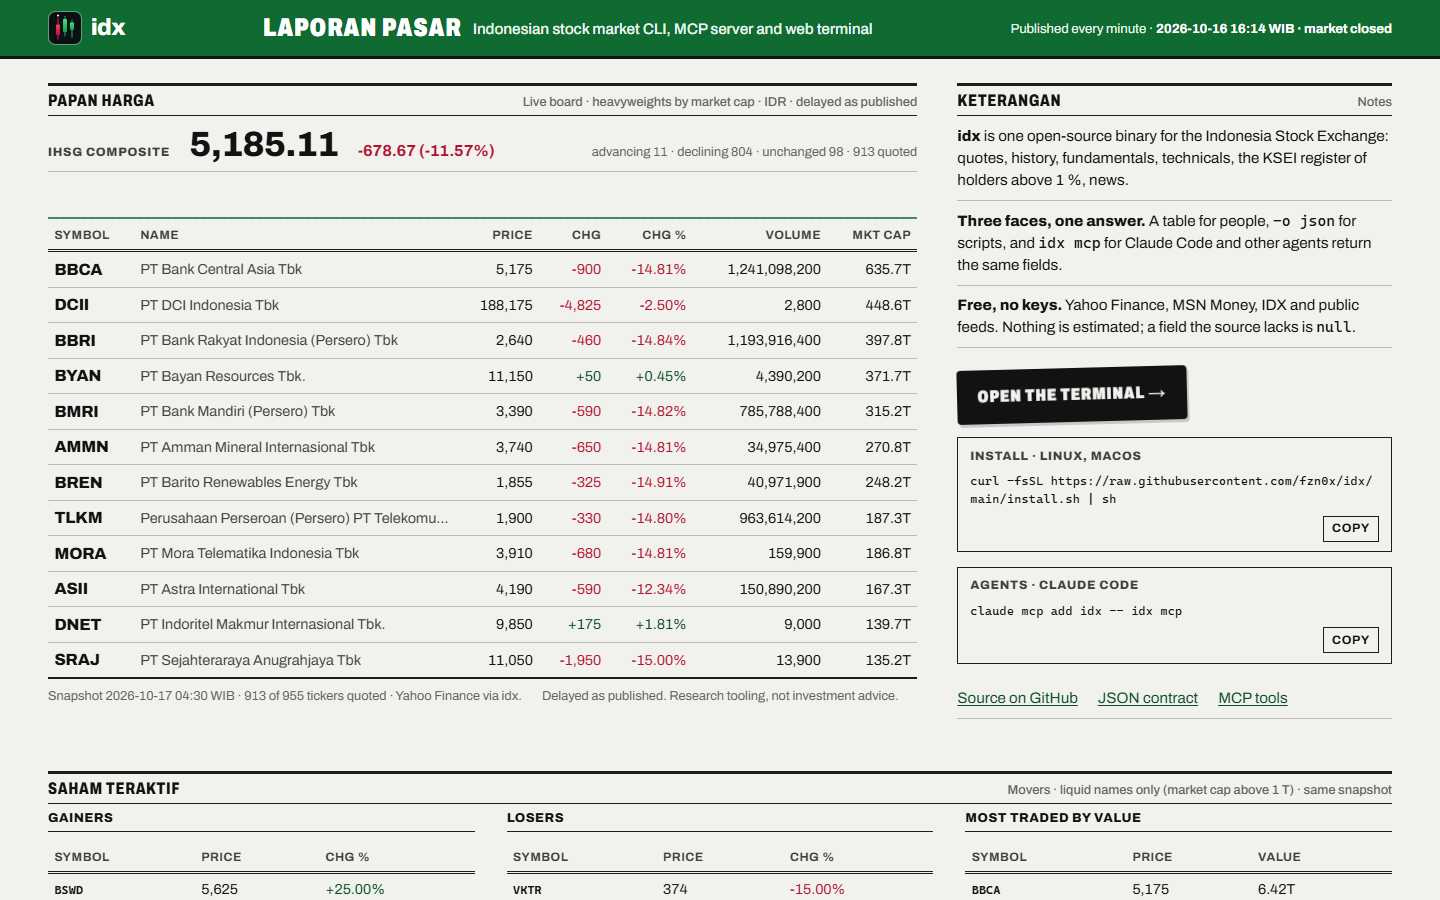
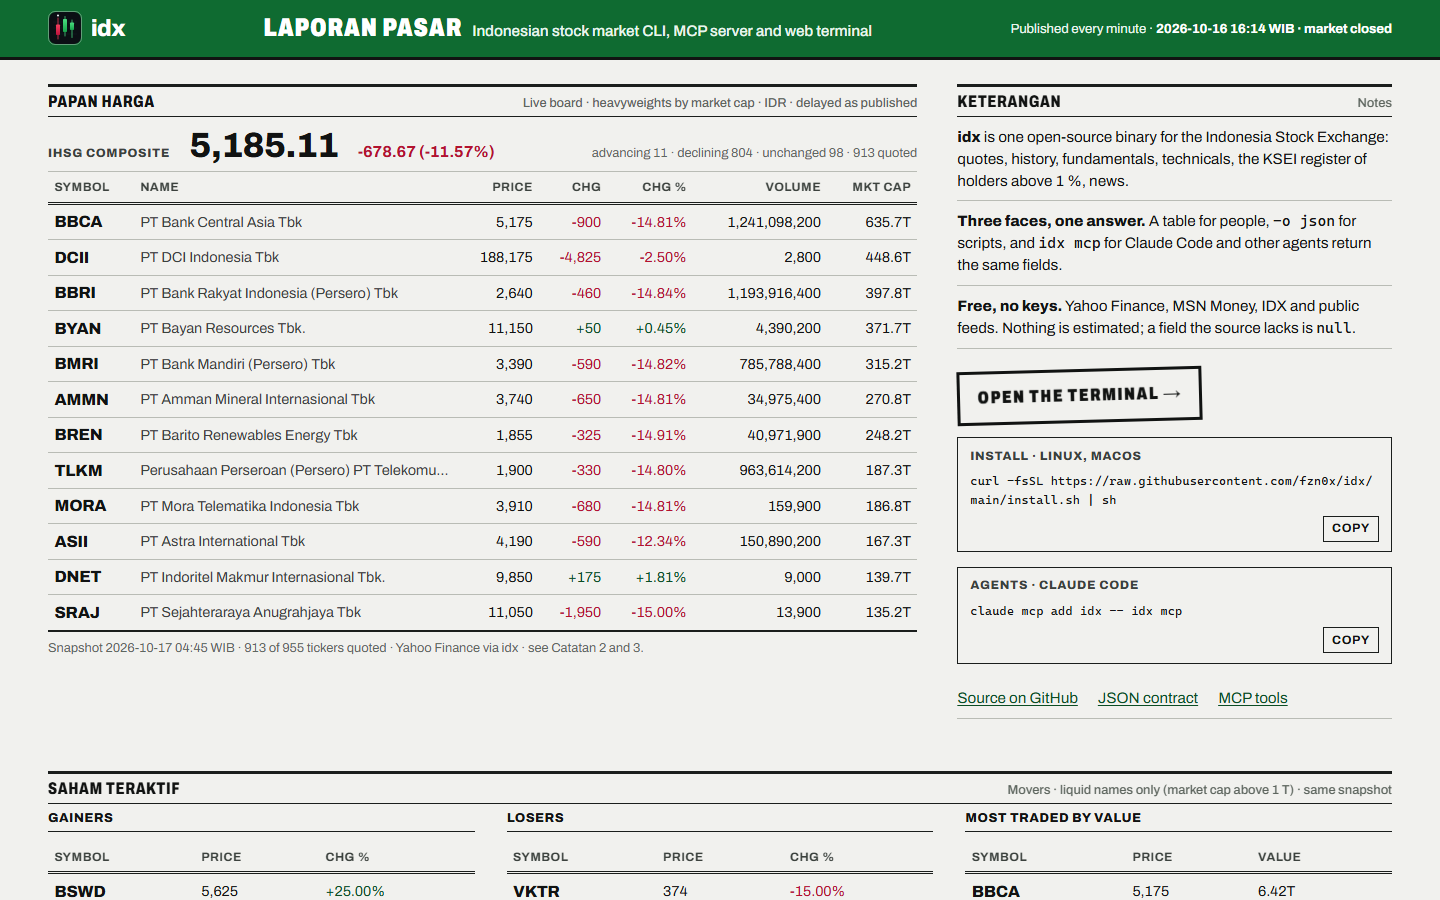
fix(web): finish-review batch for the landing page and terminal
- mobile board keeps Symbol, Price, Chg, Chg %, Mkt Cap visible without scrolling
- terminal quote columns lead with price and change; scroll containers show a
  fade and a "scroll for more columns" cue on touch screens
- primary action is a real stamp (transparent, 3 px ink border, no shadow)
- movers ticker codes use the board's bold Archivo; monospace scoped to the MCP list
- index tape renders only with real data; single fade entrance removed
- board foot carries provenance and note references, the signature holds the disclaimer
- terminal JSON output framed by rules instead of a side stripe
- masthead heading is a real 1.6rem step with looser leading

diff --git a/web/public/styles.css b/web/public/styles.css
@@ -67,8 +67,8 @@ p { margin: 0; }
 .brand { display: inline-flex; align-items: center; gap: 0.55rem; color: #fff; text-decoration: none; }
 .brand img { width: 34px; height: 34px; display: block; border-radius: 7px; border: 1px solid rgba(255,255,255,0.35); }
 .brand span { font-size: 1.45rem; font-weight: 800; letter-spacing: -0.02em; }
-.masthead-title { font-size: clamp(0.85rem, 1.2vw, 0.95rem); font-weight: 500; text-align: center; color: #e9f6ee; line-height: 1.2; }
-.masthead-title b { display: inline-block; color: #fff; font-weight: 900; font-size: clamp(1.3rem, 2.2vw, 1.6rem); margin-right: 0.5rem; vertical-align: -0.06em; }
+.masthead-title { font-size: clamp(1.3rem, 2.2vw, 1.6rem); font-weight: 900; text-align: center; color: #fff; line-height: 1.35; }
+.masthead-title span { font-size: clamp(0.85rem, 1.2vw, 0.95rem); font-weight: 500; color: #e9f6ee; margin-left: 0.35rem; }
 .dateline { text-align: right; font-size: 0.82rem; color: #e9f6ee; white-space: nowrap; }
 .dateline strong { color: #fff; font-weight: 700; }
 .masthead nav a { color: #fff; margin-left: 1rem; font-size: 0.88rem; }
@@ -90,6 +90,9 @@ p { margin: 0; }
 
 /* ---- tables -------------------------------------------------------------- */
 .tbl-wrap { overflow-x: auto; scrollbar-width: thin; }
+.tbl-wrap.scrollable { -webkit-mask-image: linear-gradient(to right, #000 calc(100% - 3rem), transparent); mask-image: linear-gradient(to right, #000 calc(100% - 3rem), transparent); }
+.scroll-cue { display: none; font-size: 0.8rem; color: var(--ink-3); padding: 0.25rem 0 0; text-align: right; }
+.scroll-cue.on { display: block; }
 .tbl { width: 100%; border-collapse: collapse; font-size: 0.9rem; }
 .tbl th {
   font-size: 0.76rem; font-weight: 700; color: var(--ink-2); text-align: right;
@@ -122,18 +125,18 @@ p { margin: 0; }
 .action { padding: 1.25rem 0 0.75rem; display: grid; gap: 0.9rem; }
 .stamp {
   display: inline-block; justify-self: start;
-  padding: 0.75rem 1.1rem;
-  border: 3px solid var(--ink); border-radius: 4px;
-  background: var(--ink); color: var(--paper);
-  font-weight: 900; font-size: 1.05rem; letter-spacing: 0.06em;
+  padding: 0.7rem 1.1rem;
+  border: 3px solid var(--ink);
+  background: transparent; color: var(--ink);
+  font-weight: 900; font-size: 1.1rem; letter-spacing: 0.08em;
   text-decoration: none;
   transform: rotate(-1.5deg);
-  box-shadow: 2px 3px 0 rgba(17,19,18,0.18);
-  transition: transform 160ms cubic-bezier(.2,.9,.2,1), box-shadow 160ms cubic-bezier(.2,.9,.2,1);
+  transition: background 120ms ease-out, color 120ms ease-out;
 }
-.stamp:hover { transform: rotate(-1.5deg) translateY(-1px); box-shadow: 3px 5px 0 rgba(17,19,18,0.22); color: #fff; }
-.stamp:active { transform: rotate(-1.5deg) translateY(1px); box-shadow: 1px 1px 0 rgba(17,19,18,0.2); }
-.stamp.red { background: transparent; color: var(--stamp); border-color: var(--stamp); box-shadow: none; transform: rotate(2deg); font-size: 0.8rem; padding: 0.3rem 0.6rem; border-width: 2px; }
+.stamp:hover, .stamp:focus-visible { background: var(--ink); color: var(--paper); }
+.stamp:active { background: var(--green-deep); border-color: var(--green-deep); color: #fff; }
+.stamp.red { color: var(--stamp); border-color: var(--stamp); transform: rotate(2deg); font-size: 0.8rem; padding: 0.3rem 0.6rem; border-width: 2px; }
+.stamp.red:hover { background: transparent; color: var(--stamp); }
 .box { border: 1px solid var(--rule); padding: 0.6rem 0.75rem; display: grid; gap: 0.45rem; }
 .box .lbl { font-size: 0.76rem; font-weight: 800; text-transform: uppercase; letter-spacing: 0.06em; color: var(--ink-2); }
 .box pre { font-size: 0.78rem; white-space: pre-wrap; word-break: break-all; }
@@ -153,7 +156,7 @@ p { margin: 0; }
 .stmt pre, .stmt .tbl { margin-top: 0.6rem; }
 .stmt pre { border-bottom: 2px solid var(--rule); padding-bottom: 0.6rem; }
 .stmt .tbl td, .stmt .tbl th { text-align: left; white-space: normal; }
-.stmt .tbl td:first-child { font-family: var(--mono); font-size: 0.78rem; white-space: nowrap; }
+.tbl-mcp td:first-child { font-family: var(--mono); font-size: 0.8rem; white-space: nowrap; }
 .movers { display: grid; grid-template-columns: repeat(3, minmax(0, 1fr)); gap: 0 2rem; }
 
 /* ---- signature ------------------------------------------------------------- */
@@ -167,10 +170,6 @@ p { margin: 0; }
 /* ---- drawn rules (one authored entrance) ------------------------------------ */
 .draw .strip, .draw .tbl th, .draw .sign { position: relative; }
 @media (prefers-reduced-motion: no-preference) {
-  .draw .lead, .draw .section, .draw .sign { animation: settle 700ms cubic-bezier(0.16, 1, 0.3, 1) both; }
-  .draw .section { animation-delay: 120ms; }
-  .draw .sign { animation-delay: 200ms; }
-  @keyframes settle { from { opacity: 0.001; transform: translateY(6px); } to { opacity: 1; transform: none; } }
   .draw .strip { background-size: 100% 100%; }
   .draw .strip::after { content: ""; position: absolute; left: 0; right: 0; top: -3px; height: 3px; background: var(--paper); transform-origin: right; animation: wipe 900ms cubic-bezier(0.16, 1, 0.3, 1) both; }
   .draw .strip.green::after { display: none; }
@@ -185,9 +184,12 @@ p { margin: 0; }
   .notes { columns: 1; }
 }
 @media (max-width: 46rem) {
+  /* The board stays readable without a horizontal scroll: symbol, price, change, change %, market cap. */
+  #board .tbl th:nth-child(2), #board .tbl td:nth-child(2), #board .tbl th:nth-child(6), #board .tbl td:nth-child(6) { display: none; }
+  .tbl .name { max-width: 8rem; }
   .masthead .wrap { grid-template-columns: auto minmax(0, 1fr); gap: 0.5rem 1rem; }
   .masthead-title { grid-column: 1 / -1; text-align: left; order: 3; }
-  .dateline { white-space: normal; font-size: 0.78rem; overflow-wrap: anywhere; line-height: 1.3; }
+  .dateline { white-space: normal; font-size: 0.78rem; overflow-wrap: anywhere; line-height: 1.4; }
   .tbl { font-size: 0.84rem; }
   .sign { grid-template-columns: 1fr; }
 }
@@ -209,7 +211,7 @@ p { margin: 0; }
 .entry .reasons { margin: 0.5rem 0 0; padding-left: 1.1rem; font-size: 0.9rem; }
 .entry .prose { max-width: 72ch; font-size: 0.95rem; }
 .entry .pill { display: inline-block; border: 2px solid currentColor; padding: 0.05rem 0.45rem; font-weight: 800; font-size: 0.8rem; text-transform: uppercase; letter-spacing: 0.06em; transform: rotate(-1deg); }
-.entry pre.json { font-size: 0.76rem; max-height: 28rem; overflow: auto; border-left: 2px solid var(--rule); padding-left: 0.75rem; }
+.entry pre.json { font-size: 0.76rem; max-height: 28rem; overflow: auto; border-top: 1px solid var(--rule); border-bottom: 2px solid var(--rule); padding: 0.5rem 0; }
 .entry .links a { display: block; font-size: 0.84rem; overflow: hidden; text-overflow: ellipsis; white-space: nowrap; }
 .prompt {
   position: sticky; bottom: 0; background: var(--paper);

diff --git a/web/public/terminal.js b/web/public/terminal.js
@@ -60,12 +60,20 @@ function kv(pairs) {
 const pct = (v) => fmt.pctPlain(v);
 const x = (v) => (v == null ? "—" : `${fmt.num(v, 2)}x`);
 
+const newsTable = (items) => wrapScroll(table([
+  { h: "WIB", f: (i) => (i.published ? fmt.wib(i.published).slice(5, 16) : "—"), l: true }, { h: "Source", k: "source", l: true },
+  { h: "±", f: (i) => (i.sentiment > 0 ? "+" : i.sentiment < 0 ? "−" : "·"), cls: (i) => signClass(i.sentiment) },
+  { h: "Headline", f: (i) => el("a", { href: i.url, target: "_blank", rel: "noopener", text: i.title }), l: true },
+], items));
+
 const R = {
   quotes(d) {
     return wrapScroll(table([
-      { h: "Symbol", k: "symbol", l: true, cls: "sym" }, { h: "Name", k: "name", l: true, cls: "name" },
-      { h: "Price", f: (r) => fmt.price(r.price), cls: "num" }, { h: "Chg", f: (r) => fmt.change(r.change), cls: (r) => `num ${signClass(r.change)}` },
-      { h: "Chg %", f: (r) => fmt.pct(r.change_pct), cls: (r) => `num ${signClass(r.change_pct)}` }, { h: "Open", f: (r) => fmt.price(r.open) },
+      { h: "Symbol", k: "symbol", l: true, cls: "sym" },
+      { h: "Price", f: (r) => fmt.price(r.price), cls: "num" },
+      { h: "Chg %", f: (r) => fmt.pct(r.change_pct), cls: (r) => `num ${signClass(r.change_pct)}` },
+      { h: "Chg", f: (r) => fmt.change(r.change), cls: (r) => `num ${signClass(r.change)}` },
+      { h: "Name", k: "name", l: true, cls: "name" }, { h: "Open", f: (r) => fmt.price(r.open) },
       { h: "High", f: (r) => fmt.price(r.day_high) }, { h: "Low", f: (r) => fmt.price(r.day_low) }, { h: "Volume", f: (r) => fmt.int(r.volume) },
       { h: "Mkt Cap", f: (r) => fmt.compact(r.market_cap) }, { h: "P/E", f: (r) => fmt.ratio(r.pe_trailing) }, { h: "Div %", f: (r) => pct(r.dividend_yield_pct) },
     ], d));
@@ -187,11 +195,7 @@ const R = {
   news(n) {
     const frag = document.createDocumentFragment();
     frag.append(el("p", { class: "prose", text: n.symbol ? `${n.items.length} of ${n.scanned} scanned headlines mention ${n.symbol}${n.matched_name ? ` or ${n.matched_name}` : ""} · ${n.sources.join(", ")}` : `${n.items.length} of ${n.scanned} headlines · ${n.sources.join(", ")}` }));
-    frag.append(wrapScroll(table([
-      { h: "WIB", f: (i) => (i.published ? fmt.wib(i.published).slice(5, 16) : "—"), l: true }, { h: "Source", k: "source", l: true },
-      { h: "±", f: (i) => (i.sentiment > 0 ? "+" : i.sentiment < 0 ? "−" : "·"), cls: (i) => signClass(i.sentiment) },
-      { h: "Headline", f: (i) => el("a", { href: i.url, target: "_blank", rel: "noopener", text: i.title }), l: true },
-    ], n.items)));
+    frag.append(newsTable(n.items));
     frag.append(el("p", { class: "warn", text: "± is a lexicon read of the headline, not a recommendation." }));
     return frag;
   },
@@ -201,7 +205,7 @@ const R = {
     frag.append(el("p", { class: "prose" }, [el("span", { class: `pill ${cls}`, text: s.label.replace("_", " ") }), ` score ${s.score > 0 ? "+" : ""}${fmt.num(s.score, 2)} · ${s.items} headlines: ${s.positive} positive, ${s.negative} negative, ${s.neutral} neutral${s.oldest ? ` · ${fmt.date(s.oldest)} → ${fmt.date(s.newest)}` : ""}`]));
     const terms = (l) => (l.length ? l.map(([t, n]) => `${t} ×${n}`).join(", ") : "—");
     frag.append(el("p", { class: "prose", text: `Terms · positive: ${terms(s.top_positive_terms)} · negative: ${terms(s.top_negative_terms)}` }));
-    if (s.headlines.length) frag.append(R.news({ symbol: s.symbol, matched_name: s.matched_name, items: s.headlines, scanned: s.items, sources: [] }).lastChild.previousSibling);
+    if (s.headlines.length) frag.append(newsTable(s.headlines));
     frag.append(el("p", { class: "warn", text: "Lexicon count over Indonesian and English finance terms. Indicative only." }));
     return frag;
   },

diff --git a/web/public/landing.js b/web/public/landing.js
@@ -3,8 +3,8 @@ import { api, fmt, table, wrapScroll, el, sparkline, reink, signClass, copyButto
 const $ = (id) => document.getElementById(id);
 
 const BOARD_COLS = [
-  { h: "Symbol", k: "symbol", l: true, cls: "sym", name: "sym" },
-  { h: "Name", k: "name", l: true, cls: "name" },
+  { h: "Symbol", k: "symbol", l: true, cls: "sym", name: "sym", title: (r) => r.name || "" },
+  { h: "Name", k: "name", l: true, cls: "name", name: "name" },
   { h: "Price", f: (r) => fmt.price(r.price), cls: "num" },
   { h: "Chg", f: (r) => fmt.change(r.change), cls: (r) => `num ${signClass(r.change)}` },
   { h: "Chg %", f: (r) => fmt.pct(r.change_pct), cls: (r) => `num ${signClass(r.change_pct)}` },
@@ -35,7 +35,8 @@ function renderMarket(env) {
   }
   $("breadth").textContent = `advancing ${m.advancing} · declining ${m.declining} · unchanged ${m.unchanged} · ${m.quoted} quoted`;
   const slot = $("tape-slot");
-  slot.replaceChildren(m.index_tape.length > 1 ? sparkline(m.index_tape) : el("span", { class: "foot", text: "Index tape starts with the next trading session." }));
+  const distinct = new Set(m.index_tape.map((p) => p[1])).size;
+  slot.replaceChildren(...(distinct > 1 ? [sparkline(m.index_tape)] : []));
 
   const t = table(BOARD_COLS, m.heavyweights, { key: "symbol" });
   t.setAttribute("aria-label", "Live board: heavyweights by market cap");
@@ -43,8 +44,7 @@ function renderMarket(env) {
   boardTable = t;
   $("board").replaceChildren(wrapScroll(t));
   $("board-foot").replaceChildren(
-    el("span", { text: `Snapshot ${fmt.wib(m.refreshed_at)} · ${m.quoted} of ${m.universe} tickers quoted · Yahoo Finance via idx.` }),
-    el("span", { text: "Delayed as published. Research tooling, not investment advice." }),
+    el("span", { text: `Snapshot ${fmt.wib(m.refreshed_at)} · ${m.quoted} of ${m.universe} tickers quoted · Yahoo Finance via idx · see Catatan 2 and 3.` }),
   );
 
   const mk = (title, cols, rows) => el("div", { class: "stmt" }, [el("h3", { class: "stmt-title", text: title }), wrapScroll(table(cols, rows))]);

diff --git a/web/public/app.js b/web/public/app.js
@@ -66,16 +66,29 @@ export function table(cols, rows, opts = {}) {
       if (c.l) td.classList.add("l");
       if (c.cls) { const cl = typeof c.cls === "function" ? c.cls(row) : c.cls; if (cl) td.className += ` ${cl}`; }
       if (c.name) td.dataset.col = c.name;
+      if (c.title) { const t = c.title(row); if (t) td.title = t; }
     }
   }
   return t;
 }
 
+/** Horizontal scroll container with a visible cue on touch screens. */
 export function wrapScroll(node) {
   const d = document.createElement("div");
   d.className = "tbl-wrap";
   d.appendChild(node);
-  return d;
+  const frag = document.createDocumentFragment();
+  const cue = el("p", { class: "scroll-cue", text: "scroll \u2192 for more columns" });
+  frag.append(d, cue);
+  const check = () => {
+    const more = d.scrollWidth - d.clientWidth - d.scrollLeft > 4;
+    d.classList.toggle("scrollable", more);
+    cue.classList.toggle("on", d.scrollWidth > d.clientWidth + 4);
+  };
+  requestAnimationFrame(check);
+  d.addEventListener("scroll", check, { passive: true });
+  if (typeof ResizeObserver !== "undefined") new ResizeObserver(check).observe(d);
+  return frag;
 }
 
 export function el(tag, attrs = {}, children = []) {

diff --git a/web/public/index.html b/web/public/index.html
@@ -48,7 +48,7 @@
           </table>
         </div>
       </div>
-      <p class="foot" id="board-foot"><span>Source: Yahoo Finance via the idx snapshot.</span><span>Prices are delayed as published; this page is research tooling, not investment advice.</span></p>
+      <p class="foot" id="board-foot"><span>Source: Yahoo Finance via the idx snapshot · see Catatan 2 and 3.</span></p>
     </section>
 
     <aside class="ket" aria-labelledby="ket-h">
@@ -122,7 +122,7 @@ Last trade 2026-10-16 16:14 WIB · market closed</pre>
       </div>
       <div class="stmt">
         <h3 class="stmt-title">For agents<small>idx mcp · 15 tools over stdio</small></h3>
-        <table class="tbl" aria-label="MCP tools">
+        <table class="tbl tbl-mcp" aria-label="MCP tools">
           <tbody>
             <tr><td>idx_quote</td><td>delayed quotes</td></tr>
             <tr><td>idx_history</td><td>OHLCV candles</td></tr>
